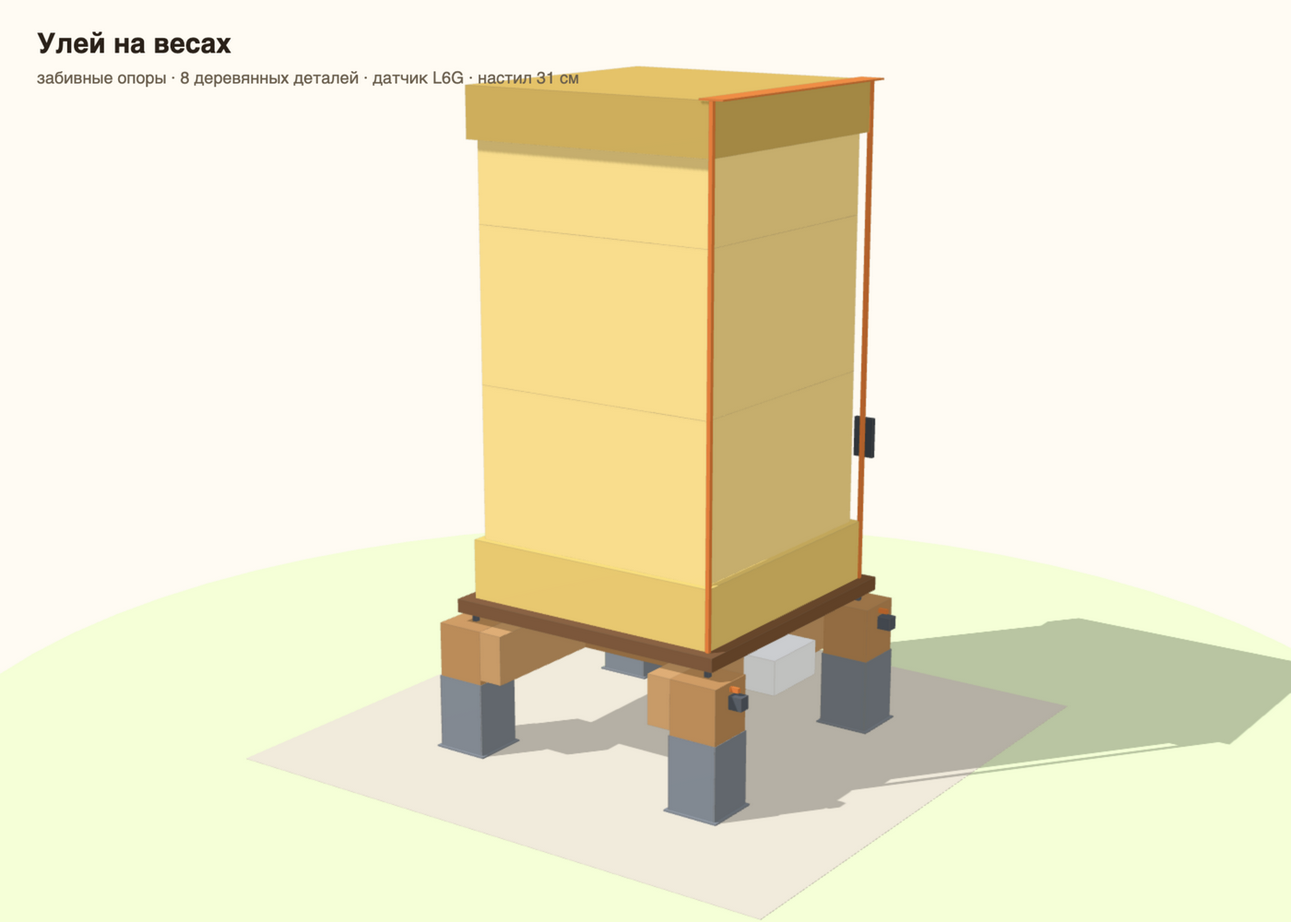
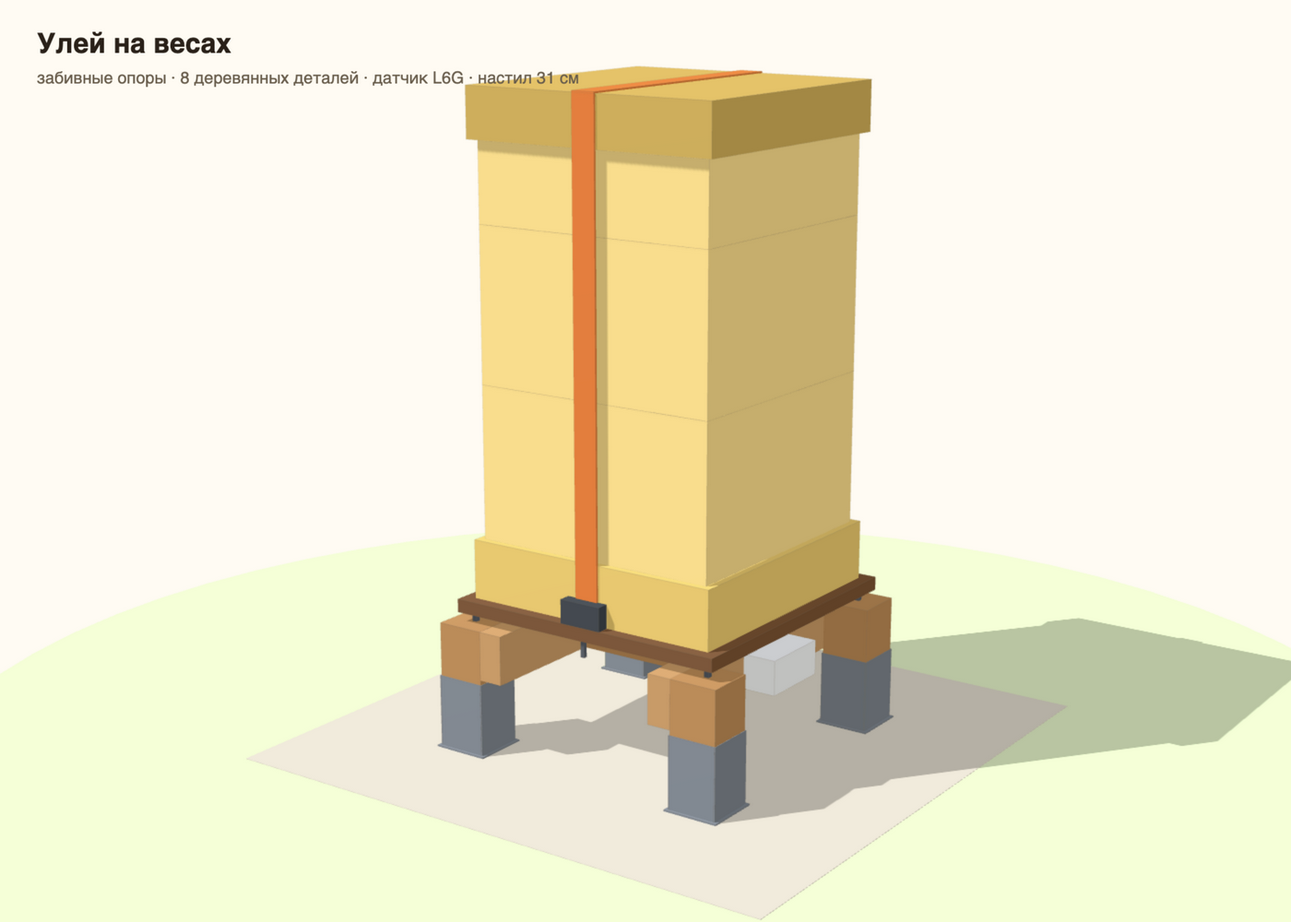
Ремень на штырях настила: натяжение больше не влияет на показания
По предложению пользователя: блок стяжки и крюк ремня стоят на двух
штырях М6×50 сквозь настил (25-мм поле у передней и задней кромок,
по оси датчика). Ремень стягивает улей с настилом и сам опирается
только на настил — он часть взвешиваемой конструкции, датчик видит
лишь его собственный вес (~0,3 кг). Ослабление/затяжка в любой момент,
при ослаблении ничего не падает и не перецепляется.

- рым-болты М10×80 убраны из проекта (минус 2 позиции покупки)
- отрыв ветром теперь через винты настила и датчик: обратная нагрузка
  ~50 кг при пределе 450 кг — возвращено к исходной схеме v1
- сверло Ø6 вернулось в набор (штыри)
- модель, чертежи, 3D-виды, визуализация (шаг 20) и BUILD синхронизированы

diff --git a/docs/tools/assembly.html b/docs/tools/assembly.html
@@ -90,7 +90,7 @@
   var elSlider = document.getElementById('asm-explode');
   var elSliderVal = document.getElementById('asm-explode-val');
 
-  var DATA = {"boxes":[{"name":"Забивная опора 100×100: пика","x0":-295,"x1":-255,"y0":-295,"y1":-255,"z0":-900,"z1":0,"color":"#8D99A6","group":"base","num":9},{"name":"Забивная опора 100×100: пластина","x0":-333,"x1":-217,"y0":-333,"y1":-217,"z0":0,"z1":3,"color":"#8D99A6","group":"base","num":9},{"name":"Забивная опора 100×100: стакан","x0":-327,"x1":-325,"y0":-327,"y1":-223,"z0":3,"z1":150,"color":"#8D99A6","group":"base","num":9},{"name":"Забивная опора 100×100: стакан","x0":-225,"x1":-223,"y0":-327,"y1":-223,"z0":3,"z1":150,"color":"#8D99A6","group":"base","num":9},{"name":"Забивная опора 100×100: стакан","x0":-325,"x1":-225,"y0":-327,"y1":-325,"z0":3,"z1":150,"color":"#8D99A6","group":"base","num":9},{"name":"Забивная опора 100×100: стакан","x0":-325,"x1":-225,"y0":-225,"y1":-223,"z0":3,"z1":150,"color":"#8D99A6","group":"base","num":9},{"name":"Ножка: брус 100×100","x0":-325,"x1":-225,"y0":-325,"y1":-225,"z0":3,"z1":260,"color":"#B9824A","group":"base","num":1},{"name":"Забивная опора 100×100: пика","x0":-295,"x1":-255,"y0":255,"y1":295,"z0":-900,"z1":0,"color":"#8D99A6","group":"base","num":9},{"name":"Забивная опора 100×100: пластина","x0":-333,"x1":-217,"y0":217,"y1":333,"z0":0,"z1":3,"color":"#8D99A6","group":"base","num":9},{"name":"Забивная опора 100×100: стакан","x0":-327,"x1":-325,"y0":223,"y1":327,"z0":3,"z1":150,"color":"#8D99A6","group":"base","num":9},{"name":"Забивная опора 100×100: стакан","x0":-225,"x1":-223,"y0":223,"y1":327,"z0":3,"z1":150,"color":"#8D99A6","group":"base","num":9},{"name":"Забивная опора 100×100: стакан","x0":-325,"x1":-225,"y0":223,"y1":225,"z0":3,"z1":150,"color":"#8D99A6","group":"base","num":9},{"name":"Забивная опора 100×100: стакан","x0":-325,"x1":-225,"y0":325,"y1":327,"z0":3,"z1":150,"color":"#8D99A6","group":"base","num":9},{"name":"Ножка: брус 100×100","x0":-325,"x1":-225,"y0":225,"y1":325,"z0":3,"z1":260,"color":"#B9824A","group":"base","num":1},{"name":"Забивная опора 100×100: пика","x0":255,"x1":295,"y0":-295,"y1":-255,"z0":-900,"z1":0,"color":"#8D99A6","group":"base","num":9},{"name":"Забивная опора 100×100: пластина","x0":217,"x1":333,"y0":-333,"y1":-217,"z0":0,"z1":3,"color":"#8D99A6","group":"base","num":9},{"name":"Забивная опора 100×100: стакан","x0":223,"x1":225,"y0":-327,"y1":-223,"z0":3,"z1":150,"color":"#8D99A6","group":"base","num":9},{"name":"Забивная опора 100×100: стакан","x0":325,"x1":327,"y0":-327,"y1":-223,"z0":3,"z1":150,"color":"#8D99A6","group":"base","num":9},{"name":"Забивная опора 100×100: стакан","x0":225,"x1":325,"y0":-327,"y1":-325,"z0":3,"z1":150,"color":"#8D99A6","group":"base","num":9},{"name":"Забивная опора 100×100: стакан","x0":225,"x1":325,"y0":-225,"y1":-223,"z0":3,"z1":150,"color":"#8D99A6","group":"base","num":9},{"name":"Ножка: брус 100×100","x0":225,"x1":325,"y0":-325,"y1":-225,"z0":3,"z1":260,"color":"#B9824A","group":"base","num":1},{"name":"Забивная опора 100×100: пика","x0":255,"x1":295,"y0":255,"y1":295,"z0":-900,"z1":0,"color":"#8D99A6","group":"base","num":9},{"name":"Забивная опора 100×100: пластина","x0":217,"x1":333,"y0":217,"y1":333,"z0":0,"z1":3,"color":"#8D99A6","group":"base","num":9},{"name":"Забивная опора 100×100: стакан","x0":223,"x1":225,"y0":223,"y1":327,"z0":3,"z1":150,"color":"#8D99A6","group":"base","num":9},{"name":"Забивная опора 100×100: стакан","x0":325,"x1":327,"y0":223,"y1":327,"z0":3,"z1":150,"color":"#8D99A6","group":"base","num":9},{"name":"Забивная опора 100×100: стакан","x0":225,"x1":325,"y0":223,"y1":225,"z0":3,"z1":150,"color":"#8D99A6","group":"base","num":9},{"name":"Забивная опора 100×100: стакан","x0":225,"x1":325,"y0":325,"y1":327,"z0":3,"z1":150,"color":"#8D99A6","group":"base","num":9},{"name":"Ножка: брус 100×100","x0":225,"x1":325,"y0":225,"y1":325,"z0":3,"z1":260,"color":"#B9824A","group":"base","num":1},{"name":"Лежень: доска 50×100×650","x0":-225,"x1":-175,"y0":-325,"y1":325,"z0":160,"z1":260,"color":"#C69159","group":"base","num":2},{"name":"Лежень: доска 50×100×650","x0":175,"x1":225,"y0":-325,"y1":325,"z0":160,"z1":260,"color":"#C69159","group":"base","num":2},{"name":"Средняя поперечина: доска 50×100×350 плашмя","x0":-175,"x1":175,"y0":-50.0,"y1":50.0,"z0":160,"z1":210,"color":"#B9824A","group":"base","num":3},{"name":"Проставка, сталь 10 мм (неподвижный конец)","x0":-87.0,"x1":-7.0,"y0":-32.5,"y1":32.5,"z0":210,"z1":220,"color":"#4F5862","group":"base","num":4},{"name":"Датчик L6G 300 кг","x0":-87.0,"x1":87.0,"y0":-32.5,"y1":32.5,"z0":220,"z1":280,"color":"#C9CED4","group":"cell","num":5},{"name":"Настил: ламинированная фанера 27 мм, 600×600","x0":-300.0,"x1":300.0,"y0":-300.0,"y1":300.0,"z0":280,"z1":307,"color":"#7A4E2D","group":"deck","num":6},{"name":"Корпус электроники IP65","x0":225,"x1":295,"y0":-75,"y1":75,"z0":165,"z1":235,"color":"#E6E9EC","group":"base","num":8},{"name":"Дно: ППУ 550×550×120","x0":-275.0,"x1":275.0,"y0":-275.0,"y1":275.0,"z0":307,"z1":427,"color":"#E3BE5A","group":"hive","num":null},{"name":"Корпус: ППУ 520×520×310","x0":-260.0,"x1":260.0,"y0":-260.0,"y1":260.0,"z0":427,"z1":737,"color":"#F2D27A","group":"hive","num":null},{"name":"Корпус: ППУ 520×520×310","x0":-260.0,"x1":260.0,"y0":-260.0,"y1":260.0,"z0":737,"z1":1047,"color":"#F2D27A","group":"hive","num":null},{"name":"Магазин: ППУ 520×520×160","x0":-260.0,"x1":260.0,"y0":-260.0,"y1":260.0,"z0":1047,"z1":1207,"color":"#F2D27A","group":"hive","num":null},{"name":"Крыша: ППУ 550×550×100","x0":-275.0,"x1":275.0,"y0":-275.0,"y1":275.0,"z0":1207,"z1":1307,"color":"#C9A445","group":"hive","num":null},{"name":"Ремень крюк-болт: полотно по кромке крыши","x0":250.0,"x1":300.0,"y0":-279.0,"y1":279.0,"z0":1307,"z1":1310,"color":"#E8701A","group":"strap","num":null},{"name":"Рым-болт М10×80: якорь ремня в ножке","x0":325,"x1":348,"y0":-280.0,"y1":-270.0,"z0":221,"z1":229,"color":"#4F5862","group":"strap","num":null},{"name":"Проушина рым-болта (крюк ремня здесь)","x0":328,"x1":356,"y0":-287.0,"y1":-263.0,"z0":212,"z1":238,"color":"#4F5862","group":"strap","num":null},{"name":"Крюк ремня в проушине","x0":330,"x1":354,"y0":-282.0,"y1":-268.0,"z0":216,"z1":234,"color":"#3A424A","group":"strap","num":null},{"name":"Ремень: косой участок к крюку","x0":271,"x1":344,"y0":-279.0,"y1":-271.0,"z0":243,"z1":252,"color":"#E8701A","group":"strap","num":null},{"name":"Ремень: ветвь к крюку","x0":271,"x1":279,"y0":-279.0,"y1":-271.0,"z0":252,"z1":1307,"color":"#E8701A","group":"strap","num":null},{"name":"Рым-болт М10×80: якорь ремня в ножке","x0":325,"x1":348,"y0":270.0,"y1":280.0,"z0":221,"z1":229,"color":"#4F5862","group":"strap","num":null},{"name":"Проушина рым-болта (крюк ремня здесь)","x0":328,"x1":356,"y0":263.0,"y1":287.0,"z0":212,"z1":238,"color":"#4F5862","group":"strap","num":null},{"name":"Крюк ремня в проушине","x0":330,"x1":354,"y0":268.0,"y1":282.0,"z0":216,"z1":234,"color":"#3A424A","group":"strap","num":null},{"name":"Ремень: косой участок к крюку","x0":271,"x1":344,"y0":271.0,"y1":279.0,"z0":243,"z1":252,"color":"#E8701A","group":"strap","num":null},{"name":"Ремень: ветвь к крюку","x0":271,"x1":279,"y0":271.0,"y1":279.0,"z0":252,"z1":1307,"color":"#E8701A","group":"strap","num":null},{"name":"Механизм натяжения ремня","x0":254.0,"x1":296.0,"y0":279.0,"y1":288.0,"z0":560,"z1":640,"color":"#3A424A","group":"strap","num":null}]};
+  var DATA = {"boxes":[{"name":"Забивная опора 100×100: пика","x0":-295,"x1":-255,"y0":-295,"y1":-255,"z0":-900,"z1":0,"color":"#8D99A6","group":"base","num":9},{"name":"Забивная опора 100×100: пластина","x0":-333,"x1":-217,"y0":-333,"y1":-217,"z0":0,"z1":3,"color":"#8D99A6","group":"base","num":9},{"name":"Забивная опора 100×100: стакан","x0":-327,"x1":-325,"y0":-327,"y1":-223,"z0":3,"z1":150,"color":"#8D99A6","group":"base","num":9},{"name":"Забивная опора 100×100: стакан","x0":-225,"x1":-223,"y0":-327,"y1":-223,"z0":3,"z1":150,"color":"#8D99A6","group":"base","num":9},{"name":"Забивная опора 100×100: стакан","x0":-325,"x1":-225,"y0":-327,"y1":-325,"z0":3,"z1":150,"color":"#8D99A6","group":"base","num":9},{"name":"Забивная опора 100×100: стакан","x0":-325,"x1":-225,"y0":-225,"y1":-223,"z0":3,"z1":150,"color":"#8D99A6","group":"base","num":9},{"name":"Ножка: брус 100×100","x0":-325,"x1":-225,"y0":-325,"y1":-225,"z0":3,"z1":260,"color":"#B9824A","group":"base","num":1},{"name":"Забивная опора 100×100: пика","x0":-295,"x1":-255,"y0":255,"y1":295,"z0":-900,"z1":0,"color":"#8D99A6","group":"base","num":9},{"name":"Забивная опора 100×100: пластина","x0":-333,"x1":-217,"y0":217,"y1":333,"z0":0,"z1":3,"color":"#8D99A6","group":"base","num":9},{"name":"Забивная опора 100×100: стакан","x0":-327,"x1":-325,"y0":223,"y1":327,"z0":3,"z1":150,"color":"#8D99A6","group":"base","num":9},{"name":"Забивная опора 100×100: стакан","x0":-225,"x1":-223,"y0":223,"y1":327,"z0":3,"z1":150,"color":"#8D99A6","group":"base","num":9},{"name":"Забивная опора 100×100: стакан","x0":-325,"x1":-225,"y0":223,"y1":225,"z0":3,"z1":150,"color":"#8D99A6","group":"base","num":9},{"name":"Забивная опора 100×100: стакан","x0":-325,"x1":-225,"y0":325,"y1":327,"z0":3,"z1":150,"color":"#8D99A6","group":"base","num":9},{"name":"Ножка: брус 100×100","x0":-325,"x1":-225,"y0":225,"y1":325,"z0":3,"z1":260,"color":"#B9824A","group":"base","num":1},{"name":"Забивная опора 100×100: пика","x0":255,"x1":295,"y0":-295,"y1":-255,"z0":-900,"z1":0,"color":"#8D99A6","group":"base","num":9},{"name":"Забивная опора 100×100: пластина","x0":217,"x1":333,"y0":-333,"y1":-217,"z0":0,"z1":3,"color":"#8D99A6","group":"base","num":9},{"name":"Забивная опора 100×100: стакан","x0":223,"x1":225,"y0":-327,"y1":-223,"z0":3,"z1":150,"color":"#8D99A6","group":"base","num":9},{"name":"Забивная опора 100×100: стакан","x0":325,"x1":327,"y0":-327,"y1":-223,"z0":3,"z1":150,"color":"#8D99A6","group":"base","num":9},{"name":"Забивная опора 100×100: стакан","x0":225,"x1":325,"y0":-327,"y1":-325,"z0":3,"z1":150,"color":"#8D99A6","group":"base","num":9},{"name":"Забивная опора 100×100: стакан","x0":225,"x1":325,"y0":-225,"y1":-223,"z0":3,"z1":150,"color":"#8D99A6","group":"base","num":9},{"name":"Ножка: брус 100×100","x0":225,"x1":325,"y0":-325,"y1":-225,"z0":3,"z1":260,"color":"#B9824A","group":"base","num":1},{"name":"Забивная опора 100×100: пика","x0":255,"x1":295,"y0":255,"y1":295,"z0":-900,"z1":0,"color":"#8D99A6","group":"base","num":9},{"name":"Забивная опора 100×100: пластина","x0":217,"x1":333,"y0":217,"y1":333,"z0":0,"z1":3,"color":"#8D99A6","group":"base","num":9},{"name":"Забивная опора 100×100: стакан","x0":223,"x1":225,"y0":223,"y1":327,"z0":3,"z1":150,"color":"#8D99A6","group":"base","num":9},{"name":"Забивная опора 100×100: стакан","x0":325,"x1":327,"y0":223,"y1":327,"z0":3,"z1":150,"color":"#8D99A6","group":"base","num":9},{"name":"Забивная опора 100×100: стакан","x0":225,"x1":325,"y0":223,"y1":225,"z0":3,"z1":150,"color":"#8D99A6","group":"base","num":9},{"name":"Забивная опора 100×100: стакан","x0":225,"x1":325,"y0":325,"y1":327,"z0":3,"z1":150,"color":"#8D99A6","group":"base","num":9},{"name":"Ножка: брус 100×100","x0":225,"x1":325,"y0":225,"y1":325,"z0":3,"z1":260,"color":"#B9824A","group":"base","num":1},{"name":"Лежень: доска 50×100×650","x0":-225,"x1":-175,"y0":-325,"y1":325,"z0":160,"z1":260,"color":"#C69159","group":"base","num":2},{"name":"Лежень: доска 50×100×650","x0":175,"x1":225,"y0":-325,"y1":325,"z0":160,"z1":260,"color":"#C69159","group":"base","num":2},{"name":"Средняя поперечина: доска 50×100×350 плашмя","x0":-175,"x1":175,"y0":-50.0,"y1":50.0,"z0":160,"z1":210,"color":"#B9824A","group":"base","num":3},{"name":"Проставка, сталь 10 мм (неподвижный конец)","x0":-87.0,"x1":-7.0,"y0":-32.5,"y1":32.5,"z0":210,"z1":220,"color":"#4F5862","group":"base","num":4},{"name":"Датчик L6G 300 кг","x0":-87.0,"x1":87.0,"y0":-32.5,"y1":32.5,"z0":220,"z1":280,"color":"#C9CED4","group":"cell","num":5},{"name":"Настил: ламинированная фанера 27 мм, 600×600","x0":-300.0,"x1":300.0,"y0":-300.0,"y1":300.0,"z0":280,"z1":307,"color":"#7A4E2D","group":"deck","num":6},{"name":"Корпус электроники IP65","x0":225,"x1":295,"y0":-75,"y1":75,"z0":165,"z1":235,"color":"#E6E9EC","group":"base","num":8},{"name":"Дно: ППУ 550×550×120","x0":-275.0,"x1":275.0,"y0":-275.0,"y1":275.0,"z0":307,"z1":427,"color":"#E3BE5A","group":"hive","num":null},{"name":"Корпус: ППУ 520×520×310","x0":-260.0,"x1":260.0,"y0":-260.0,"y1":260.0,"z0":427,"z1":737,"color":"#F2D27A","group":"hive","num":null},{"name":"Корпус: ППУ 520×520×310","x0":-260.0,"x1":260.0,"y0":-260.0,"y1":260.0,"z0":737,"z1":1047,"color":"#F2D27A","group":"hive","num":null},{"name":"Магазин: ППУ 520×520×160","x0":-260.0,"x1":260.0,"y0":-260.0,"y1":260.0,"z0":1047,"z1":1207,"color":"#F2D27A","group":"hive","num":null},{"name":"Крыша: ППУ 550×550×100","x0":-275.0,"x1":275.0,"y0":-275.0,"y1":275.0,"z0":1207,"z1":1307,"color":"#C9A445","group":"hive","num":null},{"name":"Штырь М6: передний (блок стяжки)","x0":-4,"x1":4,"y0":-292,"y1":-284,"z0":245,"z1":312,"color":"#4F5862","group":"strap","num":null},{"name":"Штырь М6: задний (крюк ремня)","x0":-4,"x1":4,"y0":284,"y1":292,"z0":245,"z1":312,"color":"#4F5862","group":"strap","num":null},{"name":"Блок стяжки ремня, на переднем штыре","x0":-45,"x1":45,"y0":-300,"y1":-262,"z0":307,"z1":355,"color":"#3A424A","group":"strap","num":null},{"name":"Крюк ремня за задний штырь","x0":-22,"x1":22,"y0":276,"y1":296,"z0":307,"z1":331,"color":"#3A424A","group":"strap","num":null},{"name":"Ремень: полотно через крышу","x0":-25.0,"x1":25.0,"y0":-279.0,"y1":279.0,"z0":1307,"z1":1310,"color":"#E8701A","group":"strap","num":null},{"name":"Ремень: ветвь передняя","x0":-25.0,"x1":25.0,"y0":-279.0,"y1":-275.0,"z0":347,"z1":1307,"color":"#E8701A","group":"strap","num":null},{"name":"Ремень: ветвь задняя","x0":-25.0,"x1":25.0,"y0":275.0,"y1":279.0,"z0":327,"z1":1307,"color":"#E8701A","group":"strap","num":null}]};
 
   var STEPS = [
     { t: 'Опоры — все четыре', badges: ['поз. 9'],
@@ -142,7 +142,7 @@
       d: 'Сверлим 4 отверстия Ø9 сквозь настил по верхним отверстиям датчика, зенкуем под потай и вкручиваем 4 винта М8×45 — 25 Н·м. Головки прячутся заподлицо с фанерой.',
       m: function () { return false; } },
     { t: 'Стоп-шпильки — упоры настила', badges: ['поз. 7'],
-      d: 'Сверлим 4 отверстия Ø8 в торцы ножек на ~80 мм, вкручиваем шпильки М10×100, гайка + контргайка с зазором 3 мм до настила. Это только упор: удар по углу настила примет шпилька, а не датчик. Крюк ремня за них НЕ цепляется — якоря ремня отдельные, рым-болты.',
+      d: 'Сверлим 4 отверстия Ø8 в торцы ножек на ~80 мм, вкручиваем шпильки М10×100, гайка + контргайка с зазором 3 мм до настила. Это только упор: удар по углу настила примет шпилька, а не датчик. Крюк ремня за них НЕ цепляется — ремень крепится штырями к настилу.',
       m: function () { return false; } },
     { t: 'Электроника', badges: ['поз. 8'],
       d: 'Корпус IP65 — под настилом, на наружной грани правого лежня: грань свободна от крепежа, коробка укрыта от осадков и стоит на неподвижной раме. Кабель датчика — петлёй вниз (капельник) перед вводом.',
@@ -150,8 +150,8 @@
     { t: 'Улей «Нижегородец»', badges: [],
       d: 'Дно 550×550×120, два корпуса 520×520×310, магазин 160, крыша 550×550×100. Настил даёт запас 25 мм на сторону.',
       m: function (b) { return b.group === 'hive'; } },
-    { t: 'Рым-болты и ремень', badges: ['крепёж'],
-      d: 'Вкручиваем два рым-болта М10×80 в наружные грани передней и задней правой ножек — ровно между гайками болтов М10 (пилот Ø8 на 60 мм). Крюки ремня — в проушины, полотно 50 мм по кромке крыши. Отрыв держит рама, датчик видит только постоянный прижим. Резьба — графитовая смазка.',
+    { t: 'Ремень на штырях настила', badges: ['крепёж'],
+      d: 'Ставим улей по центру. Просверливаем насквозь два отверстия Ø6 в 25-мм поле настила — у передней и задней кромок, по оси датчика — и вставляем штыри М6×50 с шайбами (гайка снизу, герметик). На передний штырь — отверстие пластины блока стяжки (гайка-барашек сверху), на задний — крюк. Ремень: вверх по стенке, через крышу, вниз. Натяжение самозатяжкой — на показания оно НЕ влияет: ремень стягивает улей с настилом и стоит на настиле сам, датчик видит только его вес (~0,3 кг). При ослаблении всё остаётся на штырях.',
       m: function (b) { return b.group === 'strap'; } }
   ];
 
@@ -175,7 +175,7 @@
     ['Сверло Ø8 в торец ножки, ~80 мм ×4', 'Шпилька М10×100: только упор, зазор 3 мм'],
     ['Крепёж корпуса — по его закладным', 'Кабель датчика — петля-капельник перед вводом'],
     ['Улей просто стоит на настиле'],
-    ['Пилот Ø8 на 60 мм в грань ножки ×2', 'Рым-болт М10×80 — якорь ремня; натяжение самозатяжкой']
+    ['Сверло Ø6 насквозь настила ×2', 'Штырь М6×50 + гайка-барашек: передний — блок стяжки, задний — крюк']
   ];
 
   var reduced = window.matchMedia && window.matchMedia('(prefers-reduced-motion: reduce)').matches;
@@ -516,31 +516,15 @@
   });
 
 
-  // рым-болты М10 — якоря ремня в наружных гранях правых ножек (шаг 19)
-  [-275, 275].forEach(function (y) {
+  // штыри М6 — крепления ремня сквозь настил (шаг 19): передний держит блок стяжки, задний — крюк
+  [[-288], [288]].forEach(function (yy) {
     var sp = new THREE.Group();
-    var sh = new THREE.Mesh(new THREE.CylinderGeometry(5, 5, 45, 10), MAT_ZINC); sh.position.y = 22.5;
-    var eye = new THREE.Mesh(new THREE.TorusGeometry(11, 4.5, 10, 20), MAT_ZINC);
-    eye.rotation.x = Math.PI / 2; eye.position.y = -13;
-    sp.add(sh); sp.add(eye);
-    addFastener({ name: 'Рым-болт М10×80: якорь ремня · пилот Ø8 на 60 мм в грань ножки, между гайками М10', num: null, step: 19, off: 70 },
-      sp, { x: -1, y: 0, z: 0 }, { x: 325, y: y, z: 225 }, toThree(60, 0, 0));
-  });
-
-  // 9) стоп-шпильки: вкручиваются в торцы ножек, следом гайка + контргайка (зазор до настила 3 мм)
-  [[-275, -275], [-275, 275], [275, -275], [275, 275]].forEach(function (p) {
-    var sp = new THREE.Group();
-    var sh = new THREE.Mesh(new THREE.CylinderGeometry(5, 5, 17, 10), MAT_ZINC); sh.position.y = 8.5;
-    sp.add(sh);
-    var nutG = new THREE.Group();
-    var wash = new THREE.Mesh(new THREE.CylinderGeometry(11, 11, 2, 12), MAT_ZINC); wash.position.y = 1;
-    var n1 = new THREE.Mesh(new THREE.CylinderGeometry(8.6, 8.6, 8, 6), MAT_ZINC); n1.position.y = 6;
-    var n2 = new THREE.Mesh(new THREE.CylinderGeometry(8.6, 8.6, 8, 6), MAT_ZINC); n2.position.y = 13;
-    nutG.add(wash); nutG.add(n1); nutG.add(n2);
-    nutG.userData.fy = 0;
-    sp.userData.nut = nutG;
-    addFastener({ name: 'Стоп-шпилька М10×100: сверло Ø8 в торец ножки на 70 мм · гайка + контргайка · зазор до настила 3 мм', num: 7, step: 16, off: 60 },
-      sp, { x: 0, y: 0, z: -1 }, { x: p[0], y: p[1], z: 260 }, toThree(0, 0, 120));
+    var sh = new THREE.Mesh(new THREE.CylinderGeometry(3, 3, 62, 10), MAT_ZINC); sh.position.y = 28;
+    var hd = new THREE.Mesh(new THREE.CylinderGeometry(6.5, 6.5, 4, 6), MAT_ZINC); hd.position.y = 2;
+    var bar = new THREE.Mesh(new THREE.CylinderGeometry(5.5, 5.5, 5, 6), MAT_ZINC); bar.position.y = 8;
+    sp.add(hd); sp.add(sh); sp.add(bar);
+    addFastener({ name: 'Штырь М6×50 сквозь настил: крепление ремня · пилот Ø6 насквозь, гайка снизу + барашек сверху', num: null, step: 19, off: 60 },
+      sp, { x: 0, y: 0, z: -1 }, { x: 0, y: yy[0], z: 307 }, toThree(0, 0, 120));
   });
 
   // ---- камера ----
@@ -702,7 +686,7 @@
     { a: 0.6, p: 1.3, r: 520, t: [272, 260, 272], hold: 9500 },
     { a: 1.2, p: 1.0, r: 1200, t: [260, 210, 0], hold: 5000 },
     { a: 0.75, p: 0.95, r: 3000, t: [0, 650, 0], hold: 5500 },
-    { a: 1.1, p: 1.1, r: 1000, t: [360, 240, 275], hold: 9000 }
+    { a: 3.0, p: 1.15, r: 1000, t: [0, 330, 270], hold: 9000 }
   ];
   var ANNO = [
     [['шаблон 550×550 по осям опор', -275, -275, 60]],
@@ -724,7 +708,7 @@
     [['Ø8 на 80 мм · гайки · зазор 3 мм · только упор', 326, 326, 270]],
     [['корпус под настилом, на лежне', 260, 0, 205]],
     [['вес: настил → датчик → рама', 0, 0, 325]],
-    [['рым-болт в грани ножки · крюк в проушину', 345, 275, 225]]
+    [['штырь М6: блок стяжки спереди, крюк сзади', 0, -288, 320]]
   ];
   var tour = { on: false, i: 0, phase: 0, t0: 0, from: null, labelEls: [] };
   var FLIGHT = reduced ? 10 : 1600;

diff --git a/docs/tools/model.js b/docs/tools/model.js
@@ -1,1 +1,1 @@
-const MODEL = {"boxes": [{"name": "Грунт", "x0": -600, "x1": 600, "y0": -600, "y1": 600, "z0": -1000, "z1": 0, "color": "#CFC8BA", "group": "ground", "num": null}, {"name": "Забивная опора 100×100: пика", "x0": -295, "x1": -255, "y0": -295, "y1": -255, "z0": -900, "z1": 0, "color": "#8D99A6", "group": "base", "num": 9}, {"name": "Забивная опора 100×100: пластина", "x0": -333, "x1": -217, "y0": -333, "y1": -217, "z0": 0, "z1": 3, "color": "#8D99A6", "group": "base", "num": 9}, {"name": "Забивная опора 100×100: стакан", "x0": -327, "x1": -325, "y0": -327, "y1": -223, "z0": 3, "z1": 150, "color": "#8D99A6", "group": "base", "num": 9}, {"name": "Забивная опора 100×100: стакан", "x0": -225, "x1": -223, "y0": -327, "y1": -223, "z0": 3, "z1": 150, "color": "#8D99A6", "group": "base", "num": 9}, {"name": "Забивная опора 100×100: стакан", "x0": -325, "x1": -225, "y0": -327, "y1": -325, "z0": 3, "z1": 150, "color": "#8D99A6", "group": "base", "num": 9}, {"name": "Забивная опора 100×100: стакан", "x0": -325, "x1": -225, "y0": -225, "y1": -223, "z0": 3, "z1": 150, "color": "#8D99A6", "group": "base", "num": 9}, {"name": "Ножка: брус 100×100", "x0": -325, "x1": -225, "y0": -325, "y1": -225, "z0": 3, "z1": 260, "color": "#B9824A", "group": "base", "num": 1}, {"name": "Забивная опора 100×100: пика", "x0": -295, "x1": -255, "y0": 255, "y1": 295, "z0": -900, "z1": 0, "color": "#8D99A6", "group": "base", "num": 9}, {"name": "Забивная опора 100×100: пластина", "x0": -333, "x1": -217, "y0": 217, "y1": 333, "z0": 0, "z1": 3, "color": "#8D99A6", "group": "base", "num": 9}, {"name": "Забивная опора 100×100: стакан", "x0": -327, "x1": -325, "y0": 223, "y1": 327, "z0": 3, "z1": 150, "color": "#8D99A6", "group": "base", "num": 9}, {"name": "Забивная опора 100×100: стакан", "x0": -225, "x1": -223, "y0": 223, "y1": 327, "z0": 3, "z1": 150, "color": "#8D99A6", "group": "base", "num": 9}, {"name": "Забивная опора 100×100: стакан", "x0": -325, "x1": -225, "y0": 223, "y1": 225, "z0": 3, "z1": 150, "color": "#8D99A6", "group": "base", "num": 9}, {"name": "Забивная опора 100×100: стакан", "x0": -325, "x1": -225, "y0": 325, "y1": 327, "z0": 3, "z1": 150, "color": "#8D99A6", "group": "base", "num": 9}, {"name": "Ножка: брус 100×100", "x0": -325, "x1": -225, "y0": 225, "y1": 325, "z0": 3, "z1": 260, "color": "#B9824A", "group": "base", "num": 1}, {"name": "Забивная опора 100×100: пика", "x0": 255, "x1": 295, "y0": -295, "y1": -255, "z0": -900, "z1": 0, "color": "#8D99A6", "group": "base", "num": 9}, {"name": "Забивная опора 100×100: пластина", "x0": 217, "x1": 333, "y0": -333, "y1": -217, "z0": 0, "z1": 3, "color": "#8D99A6", "group": "base", "num": 9}, {"name": "Забивная опора 100×100: стакан", "x0": 223, "x1": 225, "y0": -327, "y1": -223, "z0": 3, "z1": 150, "color": "#8D99A6", "group": "base", "num": 9}, {"name": "Забивная опора 100×100: стакан", "x0": 325, "x1": 327, "y0": -327, "y1": -223, "z0": 3, "z1": 150, "color": "#8D99A6", "group": "base", "num": 9}, {"name": "Забивная опора 100×100: стакан", "x0": 225, "x1": 325, "y0": -327, "y1": -325, "z0": 3, "z1": 150, "color": "#8D99A6", "group": "base", "num": 9}, {"name": "Забивная опора 100×100: стакан", "x0": 225, "x1": 325, "y0": -225, "y1": -223, "z0": 3, "z1": 150, "color": "#8D99A6", "group": "base", "num": 9}, {"name": "Ножка: брус 100×100", "x0": 225, "x1": 325, "y0": -325, "y1": -225, "z0": 3, "z1": 260, "color": "#B9824A", "group": "base", "num": 1}, {"name": "Забивная опора 100×100: пика", "x0": 255, "x1": 295, "y0": 255, "y1": 295, "z0": -900, "z1": 0, "color": "#8D99A6", "group": "base", "num": 9}, {"name": "Забивная опора 100×100: пластина", "x0": 217, "x1": 333, "y0": 217, "y1": 333, "z0": 0, "z1": 3, "color": "#8D99A6", "group": "base", "num": 9}, {"name": "Забивная опора 100×100: стакан", "x0": 223, "x1": 225, "y0": 223, "y1": 327, "z0": 3, "z1": 150, "color": "#8D99A6", "group": "base", "num": 9}, {"name": "Забивная опора 100×100: стакан", "x0": 325, "x1": 327, "y0": 223, "y1": 327, "z0": 3, "z1": 150, "color": "#8D99A6", "group": "base", "num": 9}, {"name": "Забивная опора 100×100: стакан", "x0": 225, "x1": 325, "y0": 223, "y1": 225, "z0": 3, "z1": 150, "color": "#8D99A6", "group": "base", "num": 9}, {"name": "Забивная опора 100×100: стакан", "x0": 225, "x1": 325, "y0": 325, "y1": 327, "z0": 3, "z1": 150, "color": "#8D99A6", "group": "base", "num": 9}, {"name": "Ножка: брус 100×100", "x0": 225, "x1": 325, "y0": 225, "y1": 325, "z0": 3, "z1": 260, "color": "#B9824A", "group": "base", "num": 1}, {"name": "Лежень: доска 50×100×650", "x0": -225, "x1": -175, "y0": -325, "y1": 325, "z0": 160, "z1": 260, "color": "#C69159", "group": "base", "num": 2}, {"name": "Лежень: доска 50×100×650", "x0": 175, "x1": 225, "y0": -325, "y1": 325, "z0": 160, "z1": 260, "color": "#C69159", "group": "base", "num": 2}, {"name": "Средняя поперечина: доска 50×100×350 плашмя", "x0": -175, "x1": 175, "y0": -50.0, "y1": 50.0, "z0": 160, "z1": 210, "color": "#B9824A", "group": "base", "num": 3}, {"name": "Проставка, сталь 10 мм (неподвижный конец)", "x0": -87.0, "x1": -7.0, "y0": -32.5, "y1": 32.5, "z0": 210, "z1": 220, "color": "#4F5862", "group": "base", "num": 4}, {"name": "Датчик L6G 300 кг", "x0": -87.0, "x1": 87.0, "y0": -32.5, "y1": 32.5, "z0": 220, "z1": 280, "color": "#C9CED4", "group": "cell", "num": 5}, {"name": "Настил: ламинированная фанера 27 мм, 600×600", "x0": -300.0, "x1": 300.0, "y0": -300.0, "y1": 300.0, "z0": 280, "z1": 307, "color": "#7A4E2D", "group": "deck", "num": 6}, {"name": "Стоп-болт: шуруп-шпилька М10", "x0": -280, "x1": -270, "y0": -280, "y1": -270, "z0": 260, "z1": 296, "color": "#4F5862", "group": "base", "num": 7}, {"name": "Стоп-болт: гайка", "x0": -284, "x1": -266, "y0": -284, "y1": -266, "z0": 296, "z1": 304, "color": "#3A424A", "group": "base", "num": 7}, {"name": "Стоп-болт: шуруп-шпилька М10", "x0": -280, "x1": -270, "y0": 270, "y1": 280, "z0": 260, "z1": 296, "color": "#4F5862", "group": "base", "num": 7}, {"name": "Стоп-болт: гайка", "x0": -284, "x1": -266, "y0": 266, "y1": 284, "z0": 296, "z1": 304, "color": "#3A424A", "group": "base", "num": 7}, {"name": "Стоп-болт: шуруп-шпилька М10", "x0": 270, "x1": 280, "y0": -280, "y1": -270, "z0": 260, "z1": 296, "color": "#4F5862", "group": "base", "num": 7}, {"name": "Стоп-болт: гайка", "x0": 266, "x1": 284, "y0": -284, "y1": -266, "z0": 296, "z1": 304, "color": "#3A424A", "group": "base", "num": 7}, {"name": "Стоп-болт: шуруп-шпилька М10", "x0": 270, "x1": 280, "y0": 270, "y1": 280, "z0": 260, "z1": 296, "color": "#4F5862", "group": "base", "num": 7}, {"name": "Стоп-болт: гайка", "x0": 266, "x1": 284, "y0": 266, "y1": 284, "z0": 296, "z1": 304, "color": "#3A424A", "group": "base", "num": 7}, {"name": "Корпус электроники IP65", "x0": 225, "x1": 295, "y0": -75, "y1": 75, "z0": 165, "z1": 235, "color": "#E6E9EC", "group": "base", "num": 8}, {"name": "Дно: ППУ 550×550×120", "x0": -275.0, "x1": 275.0, "y0": -275.0, "y1": 275.0, "z0": 307, "z1": 427, "color": "#E3BE5A", "group": "hive", "num": null}, {"name": "Корпус: ППУ 520×520×310", "x0": -260.0, "x1": 260.0, "y0": -260.0, "y1": 260.0, "z0": 427, "z1": 737, "color": "#F2D27A", "group": "hive", "num": null}, {"name": "Корпус: ППУ 520×520×310", "x0": -260.0, "x1": 260.0, "y0": -260.0, "y1": 260.0, "z0": 737, "z1": 1047, "color": "#F2D27A", "group": "hive", "num": null}, {"name": "Магазин: ППУ 520×520×160", "x0": -260.0, "x1": 260.0, "y0": -260.0, "y1": 260.0, "z0": 1047, "z1": 1207, "color": "#F2D27A", "group": "hive", "num": null}, {"name": "Крыша: ППУ 550×550×100", "x0": -275.0, "x1": 275.0, "y0": -275.0, "y1": 275.0, "z0": 1207, "z1": 1307, "color": "#C9A445", "group": "hive", "num": null}, {"name": "Ремень крюк-болт: полотно по кромке крыши", "x0": 250.0, "x1": 300.0, "y0": -279.0, "y1": 279.0, "z0": 1307, "z1": 1310, "color": "#E8701A", "group": "strap", "num": null}, {"name": "Рым-болт М10×80: якорь ремня в ножке", "x0": 325, "x1": 348, "y0": -280.0, "y1": -270.0, "z0": 221, "z1": 229, "color": "#4F5862", "group": "strap", "num": null}, {"name": "Проушина рым-болта (крюк ремня здесь)", "x0": 328, "x1": 356, "y0": -287.0, "y1": -263.0, "z0": 212, "z1": 238, "color": "#4F5862", "group": "strap", "num": null}, {"name": "Крюк ремня в проушине", "x0": 330, "x1": 354, "y0": -282.0, "y1": -268.0, "z0": 216, "z1": 234, "color": "#3A424A", "group": "strap", "num": null}, {"name": "Ремень: косой участок к крюку", "x0": 271, "x1": 344, "y0": -279.0, "y1": -271.0, "z0": 243, "z1": 252, "color": "#E8701A", "group": "strap", "num": null}, {"name": "Ремень: ветвь к крюку", "x0": 271, "x1": 279, "y0": -279.0, "y1": -271.0, "z0": 252, "z1": 1307, "color": "#E8701A", "group": "strap", "num": null}, {"name": "Рым-болт М10×80: якорь ремня в ножке", "x0": 325, "x1": 348, "y0": 270.0, "y1": 280.0, "z0": 221, "z1": 229, "color": "#4F5862", "group": "strap", "num": null}, {"name": "Проушина рым-болта (крюк ремня здесь)", "x0": 328, "x1": 356, "y0": 263.0, "y1": 287.0, "z0": 212, "z1": 238, "color": "#4F5862", "group": "strap", "num": null}, {"name": "Крюк ремня в проушине", "x0": 330, "x1": 354, "y0": 268.0, "y1": 282.0, "z0": 216, "z1": 234, "color": "#3A424A", "group": "strap", "num": null}, {"name": "Ремень: косой участок к крюку", "x0": 271, "x1": 344, "y0": 271.0, "y1": 279.0, "z0": 243, "z1": 252, "color": "#E8701A", "group": "strap", "num": null}, {"name": "Ремень: ветвь к крюку", "x0": 271, "x1": 279, "y0": 271.0, "y1": 279.0, "z0": 252, "z1": 1307, "color": "#E8701A", "group": "strap", "num": null}, {"name": "Механизм натяжения ремня", "x0": 254.0, "x1": 296.0, "y0": 279.0, "y1": 288.0, "z0": 560, "z1": 640, "color": "#3A424A", "group": "strap", "num": null}]};
+const MODEL = {"boxes": [{"name": "Грунт", "x0": -600, "x1": 600, "y0": -600, "y1": 600, "z0": -1000, "z1": 0, "color": "#CFC8BA", "group": "ground", "num": null}, {"name": "Забивная опора 100×100: пика", "x0": -295, "x1": -255, "y0": -295, "y1": -255, "z0": -900, "z1": 0, "color": "#8D99A6", "group": "base", "num": 9}, {"name": "Забивная опора 100×100: пластина", "x0": -333, "x1": -217, "y0": -333, "y1": -217, "z0": 0, "z1": 3, "color": "#8D99A6", "group": "base", "num": 9}, {"name": "Забивная опора 100×100: стакан", "x0": -327, "x1": -325, "y0": -327, "y1": -223, "z0": 3, "z1": 150, "color": "#8D99A6", "group": "base", "num": 9}, {"name": "Забивная опора 100×100: стакан", "x0": -225, "x1": -223, "y0": -327, "y1": -223, "z0": 3, "z1": 150, "color": "#8D99A6", "group": "base", "num": 9}, {"name": "Забивная опора 100×100: стакан", "x0": -325, "x1": -225, "y0": -327, "y1": -325, "z0": 3, "z1": 150, "color": "#8D99A6", "group": "base", "num": 9}, {"name": "Забивная опора 100×100: стакан", "x0": -325, "x1": -225, "y0": -225, "y1": -223, "z0": 3, "z1": 150, "color": "#8D99A6", "group": "base", "num": 9}, {"name": "Ножка: брус 100×100", "x0": -325, "x1": -225, "y0": -325, "y1": -225, "z0": 3, "z1": 260, "color": "#B9824A", "group": "base", "num": 1}, {"name": "Забивная опора 100×100: пика", "x0": -295, "x1": -255, "y0": 255, "y1": 295, "z0": -900, "z1": 0, "color": "#8D99A6", "group": "base", "num": 9}, {"name": "Забивная опора 100×100: пластина", "x0": -333, "x1": -217, "y0": 217, "y1": 333, "z0": 0, "z1": 3, "color": "#8D99A6", "group": "base", "num": 9}, {"name": "Забивная опора 100×100: стакан", "x0": -327, "x1": -325, "y0": 223, "y1": 327, "z0": 3, "z1": 150, "color": "#8D99A6", "group": "base", "num": 9}, {"name": "Забивная опора 100×100: стакан", "x0": -225, "x1": -223, "y0": 223, "y1": 327, "z0": 3, "z1": 150, "color": "#8D99A6", "group": "base", "num": 9}, {"name": "Забивная опора 100×100: стакан", "x0": -325, "x1": -225, "y0": 223, "y1": 225, "z0": 3, "z1": 150, "color": "#8D99A6", "group": "base", "num": 9}, {"name": "Забивная опора 100×100: стакан", "x0": -325, "x1": -225, "y0": 325, "y1": 327, "z0": 3, "z1": 150, "color": "#8D99A6", "group": "base", "num": 9}, {"name": "Ножка: брус 100×100", "x0": -325, "x1": -225, "y0": 225, "y1": 325, "z0": 3, "z1": 260, "color": "#B9824A", "group": "base", "num": 1}, {"name": "Забивная опора 100×100: пика", "x0": 255, "x1": 295, "y0": -295, "y1": -255, "z0": -900, "z1": 0, "color": "#8D99A6", "group": "base", "num": 9}, {"name": "Забивная опора 100×100: пластина", "x0": 217, "x1": 333, "y0": -333, "y1": -217, "z0": 0, "z1": 3, "color": "#8D99A6", "group": "base", "num": 9}, {"name": "Забивная опора 100×100: стакан", "x0": 223, "x1": 225, "y0": -327, "y1": -223, "z0": 3, "z1": 150, "color": "#8D99A6", "group": "base", "num": 9}, {"name": "Забивная опора 100×100: стакан", "x0": 325, "x1": 327, "y0": -327, "y1": -223, "z0": 3, "z1": 150, "color": "#8D99A6", "group": "base", "num": 9}, {"name": "Забивная опора 100×100: стакан", "x0": 225, "x1": 325, "y0": -327, "y1": -325, "z0": 3, "z1": 150, "color": "#8D99A6", "group": "base", "num": 9}, {"name": "Забивная опора 100×100: стакан", "x0": 225, "x1": 325, "y0": -225, "y1": -223, "z0": 3, "z1": 150, "color": "#8D99A6", "group": "base", "num": 9}, {"name": "Ножка: брус 100×100", "x0": 225, "x1": 325, "y0": -325, "y1": -225, "z0": 3, "z1": 260, "color": "#B9824A", "group": "base", "num": 1}, {"name": "Забивная опора 100×100: пика", "x0": 255, "x1": 295, "y0": 255, "y1": 295, "z0": -900, "z1": 0, "color": "#8D99A6", "group": "base", "num": 9}, {"name": "Забивная опора 100×100: пластина", "x0": 217, "x1": 333, "y0": 217, "y1": 333, "z0": 0, "z1": 3, "color": "#8D99A6", "group": "base", "num": 9}, {"name": "Забивная опора 100×100: стакан", "x0": 223, "x1": 225, "y0": 223, "y1": 327, "z0": 3, "z1": 150, "color": "#8D99A6", "group": "base", "num": 9}, {"name": "Забивная опора 100×100: стакан", "x0": 325, "x1": 327, "y0": 223, "y1": 327, "z0": 3, "z1": 150, "color": "#8D99A6", "group": "base", "num": 9}, {"name": "Забивная опора 100×100: стакан", "x0": 225, "x1": 325, "y0": 223, "y1": 225, "z0": 3, "z1": 150, "color": "#8D99A6", "group": "base", "num": 9}, {"name": "Забивная опора 100×100: стакан", "x0": 225, "x1": 325, "y0": 325, "y1": 327, "z0": 3, "z1": 150, "color": "#8D99A6", "group": "base", "num": 9}, {"name": "Ножка: брус 100×100", "x0": 225, "x1": 325, "y0": 225, "y1": 325, "z0": 3, "z1": 260, "color": "#B9824A", "group": "base", "num": 1}, {"name": "Лежень: доска 50×100×650", "x0": -225, "x1": -175, "y0": -325, "y1": 325, "z0": 160, "z1": 260, "color": "#C69159", "group": "base", "num": 2}, {"name": "Лежень: доска 50×100×650", "x0": 175, "x1": 225, "y0": -325, "y1": 325, "z0": 160, "z1": 260, "color": "#C69159", "group": "base", "num": 2}, {"name": "Средняя поперечина: доска 50×100×350 плашмя", "x0": -175, "x1": 175, "y0": -50.0, "y1": 50.0, "z0": 160, "z1": 210, "color": "#B9824A", "group": "base", "num": 3}, {"name": "Проставка, сталь 10 мм (неподвижный конец)", "x0": -87.0, "x1": -7.0, "y0": -32.5, "y1": 32.5, "z0": 210, "z1": 220, "color": "#4F5862", "group": "base", "num": 4}, {"name": "Датчик L6G 300 кг", "x0": -87.0, "x1": 87.0, "y0": -32.5, "y1": 32.5, "z0": 220, "z1": 280, "color": "#C9CED4", "group": "cell", "num": 5}, {"name": "Настил: ламинированная фанера 27 мм, 600×600", "x0": -300.0, "x1": 300.0, "y0": -300.0, "y1": 300.0, "z0": 280, "z1": 307, "color": "#7A4E2D", "group": "deck", "num": 6}, {"name": "Стоп-болт: шуруп-шпилька М10", "x0": -280, "x1": -270, "y0": -280, "y1": -270, "z0": 260, "z1": 296, "color": "#4F5862", "group": "base", "num": 7}, {"name": "Стоп-болт: гайка", "x0": -284, "x1": -266, "y0": -284, "y1": -266, "z0": 296, "z1": 304, "color": "#3A424A", "group": "base", "num": 7}, {"name": "Стоп-болт: шуруп-шпилька М10", "x0": -280, "x1": -270, "y0": 270, "y1": 280, "z0": 260, "z1": 296, "color": "#4F5862", "group": "base", "num": 7}, {"name": "Стоп-болт: гайка", "x0": -284, "x1": -266, "y0": 266, "y1": 284, "z0": 296, "z1": 304, "color": "#3A424A", "group": "base", "num": 7}, {"name": "Стоп-болт: шуруп-шпилька М10", "x0": 270, "x1": 280, "y0": -280, "y1": -270, "z0": 260, "z1": 296, "color": "#4F5862", "group": "base", "num": 7}, {"name": "Стоп-болт: гайка", "x0": 266, "x1": 284, "y0": -284, "y1": -266, "z0": 296, "z1": 304, "color": "#3A424A", "group": "base", "num": 7}, {"name": "Стоп-болт: шуруп-шпилька М10", "x0": 270, "x1": 280, "y0": 270, "y1": 280, "z0": 260, "z1": 296, "color": "#4F5862", "group": "base", "num": 7}, {"name": "Стоп-болт: гайка", "x0": 266, "x1": 284, "y0": 266, "y1": 284, "z0": 296, "z1": 304, "color": "#3A424A", "group": "base", "num": 7}, {"name": "Корпус электроники IP65", "x0": 225, "x1": 295, "y0": -75, "y1": 75, "z0": 165, "z1": 235, "color": "#E6E9EC", "group": "base", "num": 8}, {"name": "Дно: ППУ 550×550×120", "x0": -275.0, "x1": 275.0, "y0": -275.0, "y1": 275.0, "z0": 307, "z1": 427, "color": "#E3BE5A", "group": "hive", "num": null}, {"name": "Корпус: ППУ 520×520×310", "x0": -260.0, "x1": 260.0, "y0": -260.0, "y1": 260.0, "z0": 427, "z1": 737, "color": "#F2D27A", "group": "hive", "num": null}, {"name": "Корпус: ППУ 520×520×310", "x0": -260.0, "x1": 260.0, "y0": -260.0, "y1": 260.0, "z0": 737, "z1": 1047, "color": "#F2D27A", "group": "hive", "num": null}, {"name": "Магазин: ППУ 520×520×160", "x0": -260.0, "x1": 260.0, "y0": -260.0, "y1": 260.0, "z0": 1047, "z1": 1207, "color": "#F2D27A", "group": "hive", "num": null}, {"name": "Крыша: ППУ 550×550×100", "x0": -275.0, "x1": 275.0, "y0": -275.0, "y1": 275.0, "z0": 1207, "z1": 1307, "color": "#C9A445", "group": "hive", "num": null}, {"name": "Штырь М6: передний (блок стяжки)", "x0": -4, "x1": 4, "y0": -292, "y1": -284, "z0": 245, "z1": 312, "color": "#4F5862", "group": "strap", "num": null}, {"name": "Штырь М6: задний (крюк ремня)", "x0": -4, "x1": 4, "y0": 284, "y1": 292, "z0": 245, "z1": 312, "color": "#4F5862", "group": "strap", "num": null}, {"name": "Блок стяжки ремня, на переднем штыре", "x0": -45, "x1": 45, "y0": -300, "y1": -262, "z0": 307, "z1": 355, "color": "#3A424A", "group": "strap", "num": null}, {"name": "Крюк ремня за задний штырь", "x0": -22, "x1": 22, "y0": 276, "y1": 296, "z0": 307, "z1": 331, "color": "#3A424A", "group": "strap", "num": null}, {"name": "Ремень: полотно через крышу", "x0": -25.0, "x1": 25.0, "y0": -279.0, "y1": 279.0, "z0": 1307, "z1": 1310, "color": "#E8701A", "group": "strap", "num": null}, {"name": "Ремень: ветвь передняя", "x0": -25.0, "x1": 25.0, "y0": -279.0, "y1": -275.0, "z0": 347, "z1": 1307, "color": "#E8701A", "group": "strap", "num": null}, {"name": "Ремень: ветвь задняя", "x0": -25.0, "x1": 25.0, "y0": 275.0, "y1": 279.0, "z0": 327, "z1": 1307, "color": "#E8701A", "group": "strap", "num": null}]};

diff --git a/docs/tools/model.py b/docs/tools/model.py
@@ -99,18 +99,16 @@ box("Корпус: ППУ 520×520×310", -BODY / 2, BODY / 2, -BODY / 2, BODY /
 box("Магазин: ППУ 520×520×160", -BODY / 2, BODY / 2, -BODY / 2, BODY / 2, z, z + 160, HIVE, "hive"); z += 160
 box("Крыша: ППУ 550×550×100", -LID / 2, LID / 2, -LID / 2, LID / 2, z, z + 100, ROOF, "hive"); z_top = z + 100
 
-# Ремень — самозатягивающийся крюк-болт (50 мм): крюки за стоп-шпильки передней и
-# задней ножек, полотно по кромке крыши. Улей держится за раму: датчик видит только прижим.
+# Ремень — самозатягивающийся крюк-болт (50 мм): оба конца на штырях М6 в настиле
+# (передний штырь держит блок стяжки, задний — крюк). Ремень стягивает улей с настилом:
+# он сам часть взвешиваемого тела, датчик видит только его вес (~0,3 кг), натяжение не влияет.
 SW = 50                                  # ширина ленты
-sx0, sx1 = LID / 2 - SW / 2, LID / 2 + SW / 2   # полотно по правой кромке крыши: x 250..300
-box("Ремень крюк-болт: полотно по кромке крыши", sx0, sx1, -LID / 2 - 4, LID / 2 + 4, z_top, z_top + 3, STRAP, "strap")
-for sy in (-1, 1):
-    y = sy * LID / 2
-    box("Рым-болт М10×80: якорь ремня в ножке", 325, 348, y - 5, y + 5, 221, 229, STEEL_D, "strap")
-    box("Проушина рым-болта (крюк ремня здесь)", 328, 356, y - 12, y + 12, 212, 238, STEEL_D, "strap")
-    box("Крюк ремня в проушине", 330, 354, y - 7, y + 7, 216, 234, "#3A424A", "strap")
-    box("Ремень: косой участок к крюку", 271, 344, y - 4, y + 4, 243, 252, STRAP, "strap")
-    box("Ремень: ветвь к крюку", 271, 279, y - 4, y + 4, 252, z_top, STRAP, "strap")
-box("Механизм натяжения ремня", LID / 2 - SW / 2 + 4, LID / 2 + SW / 2 - 4, LID / 2 + 4, LID / 2 + 13, 560, 640, "#3A424A", "strap")
+box("Штырь М6: передний (блок стяжки)", -4, 4, -292, -284, 245, 312, STEEL_D, "strap")
+box("Штырь М6: задний (крюк ремня)", -4, 4, 284, 292, 245, 312, STEEL_D, "strap")
+box("Блок стяжки ремня, на переднем штыре", -45, 45, -300, -262, z_deck, z_deck + 48, "#3A424A", "strap")
+box("Крюк ремня за задний штырь", -22, 22, 276, 296, z_deck, z_deck + 24, "#3A424A", "strap")
+box("Ремень: полотно через крышу", -SW / 2, SW / 2, -LID / 2 - 4, LID / 2 + 4, z_top, z_top + 3, STRAP, "strap")
+box("Ремень: ветвь передняя", -SW / 2, SW / 2, -LID / 2 - 4, -LID / 2, z_deck + 40, z_top, STRAP, "strap")
+box("Ремень: ветвь задняя", -SW / 2, SW / 2, LID / 2, LID / 2 + 4, z_deck + 20, z_top, STRAP, "strap")
 
 HEIGHT_TOP = z_top

diff --git a/docs/BUILD.md b/docs/BUILD.md
@@ -95,8 +95,8 @@
 | Пластина 60×60×4 с отверстием Ø9 | под головки нижних болтов М8 (только снизу) | 1 |
 | Винт М8 с потайной головкой, 45 мм | настил → датчик, сверху · Ø9 насквозь + зенковка, 25 Н·м | 4 |
 | Шуруп-шпилька М10×100 + гайка М10 × 2 + шайба | стоп-шпильки в торцы ножек — упоры настила, зазор 3 мм · пилот Ø8 | 4 компл. |
-| Рым-болт М10×80 (или рым-ригель 10×80) | якоря ремня: наружные грани передней и задней правой ножек, между гайками М10 · пилот Ø8 | 2 |
-| Ремень самозатягивающийся крюк-болт, лента 50 мм, от 2,5 м | крюки — в проушины рым-болтов, полотно через крышу по кромке | 1 |
+| Штырь М6×50 + гайка-барашек + 2 шайбы | крепления ремня сквозь настил: передний — блок стяжки, задний — крюк · Ø6 насквозь | 2 компл. |
+| Ремень самозатягивающийся крюк-болт, лента 50 мм, от 2,5 м | блок стяжки — на переднем штыре настила, крюк — на заднем; полотно через крышу по оси датчика | 1 |
 | *Запасной вариант вместо крюк-болта:* ремни с храповиком 25 мм, 3–4 м | петли вокруг улья и настила, параллельно оси датчика | *2* |
 
 Весь крепёж бери оцинкованный.
@@ -109,7 +109,7 @@
 - **Антисептик для наружных работ** — на всё дерево, а торцы ножек, которые стоят в стаканах, — особенно щедро.
 - **Масло для террас, лазурь или фасадная краска на водной основе** — финишный слой над антисептиком. Обрабатывай заранее, чтобы к приезду пчёл запах выветрился.
 - **Герметик или краска** — на торцы фанеры, отверстия в ней и на торцы ножек вокруг стоп-шпилек.
-- **Графитовая смазка** — резьба стоп-шпилек и рым-болтов: не закиснет и не соберёт песок (в отличие от литола).
+- **Графитовая смазка** — резьба стоп-шпилек и штырей ремня: не закиснет и не соберёт песок (в отличие от литола).
 
 ### Инструмент
 
@@ -117,7 +117,7 @@
 - уровень на 1 м;
 - рулетка, угольник;
 - ножовка или торцовка;
-- дрель-шуруповёрт, свёрла по дереву 4, 8, 9 и 11 мм, зенковка под потай (для винтов настила);
+- дрель-шуруповёрт, свёрла по дереву 4, 6, 8, 9 и 11 мм, зенковка под потай (для винтов настила);
 - ключи на 13 и 17;
 - динамометрический ключ — желательно: момент для болтов датчика по паспорту, у L6G это 25 Н·м;
 - щуп или шайбы толщиной 3 мм, чтобы выставить зазор стоп-болтов.
@@ -156,7 +156,9 @@
 8. **Настил — прямо на датчик.** Положи фанеру на грузовую площадку датчика по центру. Просверли насквозь Ø9 по верхним отверстиям датчика, раздзенькуй под потай и прикрути четырьмя винтами М8×45 с потайной головкой (25 Н·м). Промышленные платформенные весы собраны именно так: настил — прямо на датчике.
 9. **Стоп-болты.** Вкрути шуруп-шпильки в торцы ножек. Верхнюю гайку выставь так, чтобы до настила оставалось **3 мм**, и законтри нижней гайкой. Торец ножки вокруг шпильки замажь герметиком.
 10. **Проверка.** Нажми на угол настила: он должен уйти на 2–3 мм и встать на стоп-болт. Толкни настил вбок: рама не должна ходить.
-11. **Улей и ремень.** Вкрути два рым-болта М10×80 в наружные грани передней и задней правой ножек — ровно между гайками болтов М10 (пилот Ø8 на 60 мм, резьба — графитовая смазка). Поставь улей по центру настила. Крюки ремня — в проушины рым-болтов, полотно 50 мм — через крышу по её кромке, затяжка самозатягивающимся механизмом. Улей держится за раму: отрыв идёт через рым-болты в ножки, мимо датчика; датчик видит только постоянный прижим — поэтому калибруй с надетым ремнём. Стоп-шпильки в креплении ремня не участвуют — они только упоры настила.
+11. **Улей и ремень.** Поставь улей по центру настила. Просверли насквозь два отверстия Ø6 в 25-мм поле настила — у передней и задней кромок, по оси датчика (резьба штырей — графитовая смазка, отверстия — герметик). Вставь штыри М6×50: гайка с шайбой снизу, сверху — шайба. На передний штырь надень отверстие пластины **блока стяжки** и зафиксируй гайкой-барашком, на задний — **крюк** ремня. Ремень: вверх по стенке улья, через крышу, вниз. Натяжение — самозатяжкой.
+
+    Ремень стягивает улей с настилом и обоими концами стоит на настиле: он — часть взвешиваемой конструкции, и датчик видит только его собственный вес (~0,3 кг, учтён в таре). **Натяжение на показания не влияет** — ослабляй и затягивай когда угодно, при ослаблении ремень остаётся на штырях и ничего не перецепляется. Отрыв ветром идёт через винты настила и датчик в раму — обратная нагрузка ~50 кг при пределе 450 кг. Стоп-шпильки в креплении ремня не участвуют — они только упоры настила.
 12. **Второй этап.** Корпус электроники крепится на **наружную грань правого лежня, под настилом**: грань свободна от крепежа (гайки М10 — на ножках), коробка укрыта от осадков кромкой настила и стоит на неподвижной части рамы. Потом подключение и калибровка по [README](../README.md#калибровка).
 
 > [!WARNING]
